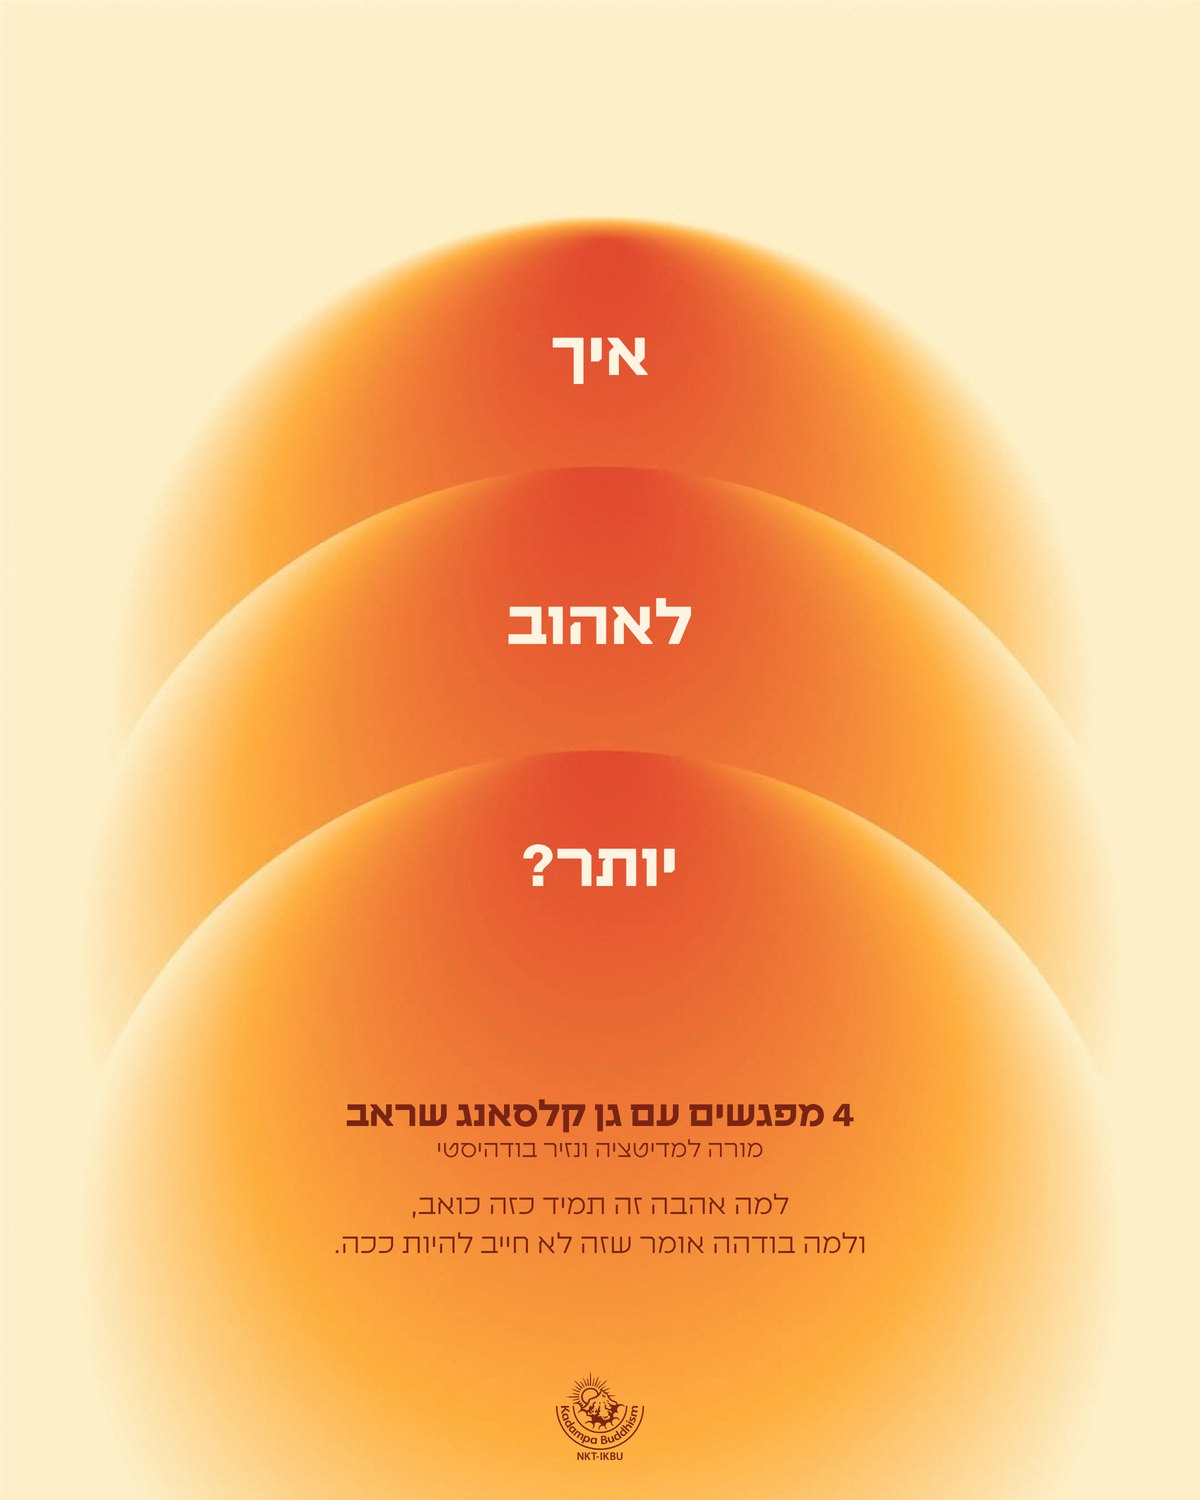
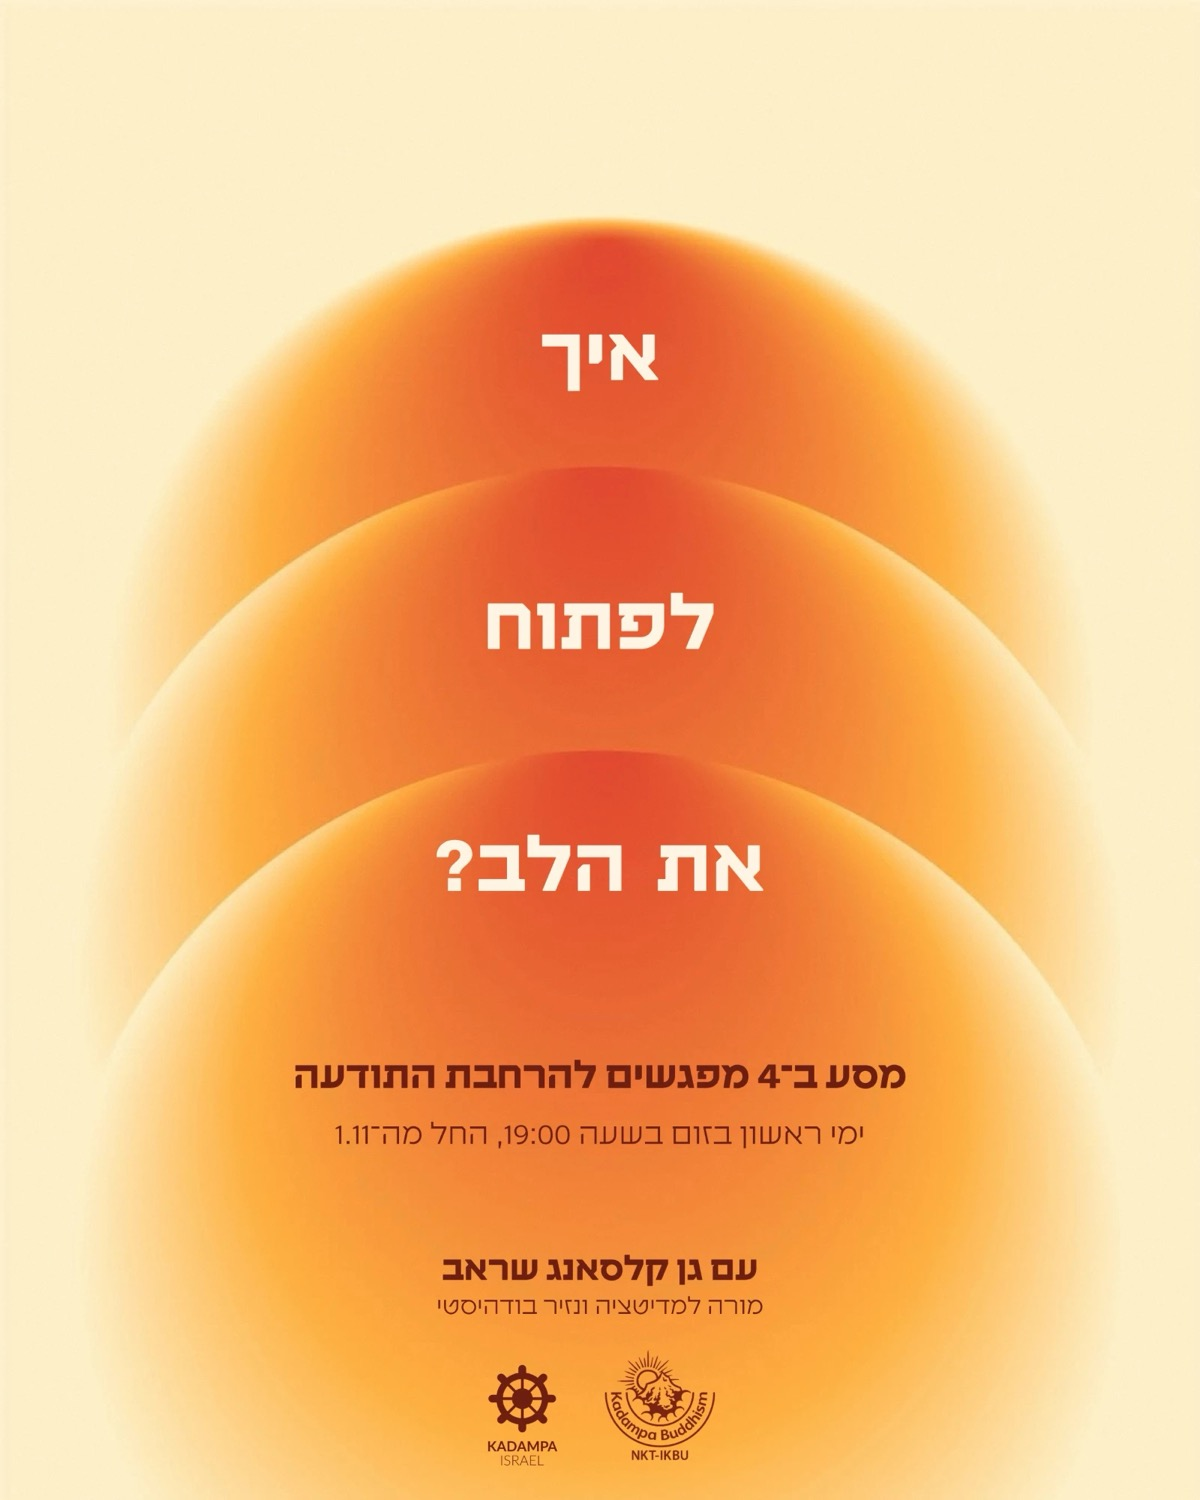
Replace series poster with the 'איך לפתוח את הלב?' version
Update the poster alt text to match the new headline.

diff --git a/index.html b/index.html
@@ -87,7 +87,7 @@
 <section id="series" class="section section--band">
 <div class="container split">
 <div class="series-poster">
-<img class="photo photo--strong" src="assets/poster.jpg" alt="פוסטר הסדרה: איך לאהוב יותר? 4 מפגשים עם גן קלסאנג שראב">
+<img class="photo photo--strong" src="assets/poster.jpg" alt="פוסטר הסדרה: איך לפתוח את הלב? 4 מפגשים עם גן קלסאנג שראב">
 </div>
 <div class="col-main stack">
 <div class="eyebrow eyebrow--lapis">הפעילות הקרובה</div>

diff --git a/series.html b/series.html
@@ -35,7 +35,7 @@
 <main>
 <section class="series-layout">
 <div class="series-aside">
-<img class="poster-tall" src="assets/poster.jpg" alt="פוסטר הסדרה: איך לאהוב יותר? 4 מפגשים עם גן קלסאנג שראב">
+<img class="poster-tall" src="assets/poster.jpg" alt="פוסטר הסדרה: איך לפתוח את הלב? 4 מפגשים עם גן קלסאנג שראב">
 <div class="card-lotus signup">
 <div class="signup__text">
 <div class="card-title">רוצים להצטרף?</div>
